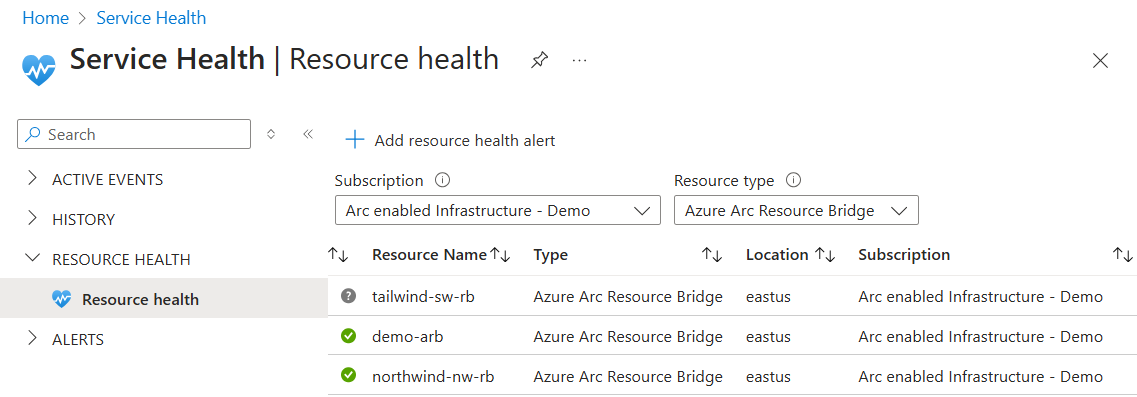
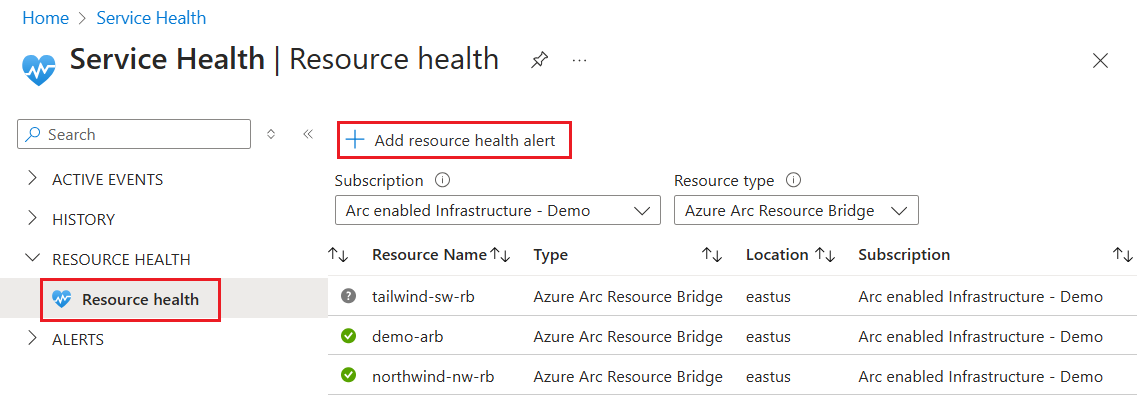
Edits to procedure

diff --git a/articles/azure-arc/system-center-virtual-machine-manager/administer-arc-scvmm.md b/articles/azure-arc/system-center-virtual-machine-manager/administer-arc-scvmm.md
@@ -2,7 +2,7 @@
 title:  Perform ongoing maintenance and administration for Azure Arc-enabled System Center Virtual Machine Manager
 description: Learn how to perform administrator operations related to Azure Arc-enabled System Center Virtual Machine Manager.
 ms.topic: how-to 
-ms.date: 01/08/2025
+ms.date: 01/30/2025
 ms.service: azure-arc
 ms.subservice: azure-arc-scvmm
 ms.custom: devx-track-azurecli
@@ -34,11 +34,18 @@ The Azure Arc resource bridge establishes line of sight between the on-premises 
 
      1. In the Azure portal, search and navigate to **Service Health**.
      1. In the left pane, select **Resource Health** > **Resource Health**.
-     1. In the **Subscription** dropdown, choose the subscription in which your resource bridge is located. In the **Resource type** dropdown, select **Azure Arc Resource Bridge**. After the list of resource bridge is populated, choose the resource bridge for which you want to set up the alert and select **Add resource health alert**. If you want to set up alerts for all the resource bridges in your subscription, you can select **Add resource health alert** without choosing any resource bridges. 
+     1. In the **Subscription** dropdown, choose the subscription in which your resource bridge is located. In the **Resource type** dropdown, select **Azure Arc Resource Bridge**. After the list of resource bridge is populated, choose the resource bridge for which you want to set up the alert and select **Add resource health alert**. If you want to set up alerts for all the resource bridges in your subscription, you can select **Add resource health alert** without choosing any resource bridges. This adds health alerts for any resource bridges you may deploy in the future.
          :::image type="content" source="media/administer-arc-scvmm/service-health.png" alt-text="Screenshot of Service Health.":::
-     1. Configure the conditions in the alert rule depending on if you want to receive continuous notifications on the health status or if you want to receive notifications only when the resource bridge becomes unhealthy. 
-     1. Configure the action group with the type of notification and the recipient of the alert. 
+     1. Configure the conditions in the alert rule depending on if you want to receive continuous notifications on the health status or if you want to receive notifications only when the resource bridge becomes unhealthy. To receive notifications only when the resource bridge becomes unhealthy, set the following conditions in the **Condition** tab:  
+           - **Event status**: Active 
+           - **Current resource status**: Unavailable 
+           - **Previous resource status**: Available  
+     1. In the **Actions** tab, configure the action group with the type of notification and the recipient of the alert. 
      1. Complete creating the alert rule by filling in the details of the alert rule location, identifiers, and optional tags.  
+
+Alternatively, you can create health alert from the Azure resource of your resource bridge. 
+
+:::image type="content" source="media/administer-arc-scvmm/resource-health.png" alt-text="Screenshot of Resource Health."::: 
 
 ## Update the SCVMM account credentials (using a new password or a new SCVMM account after onboarding)
 
